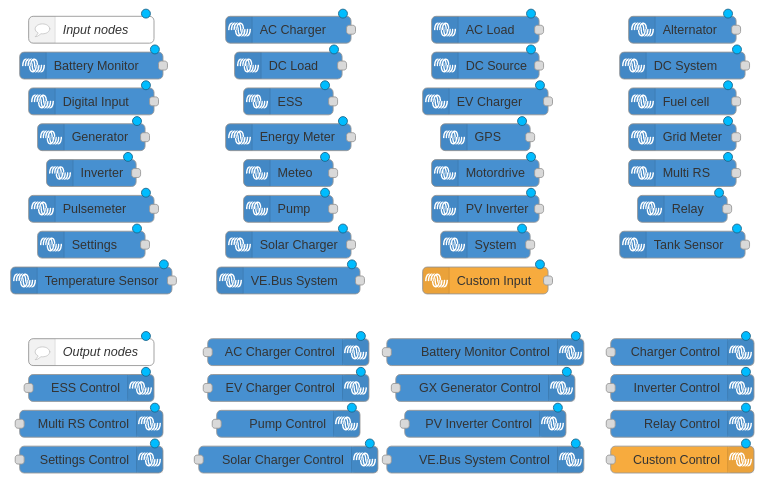
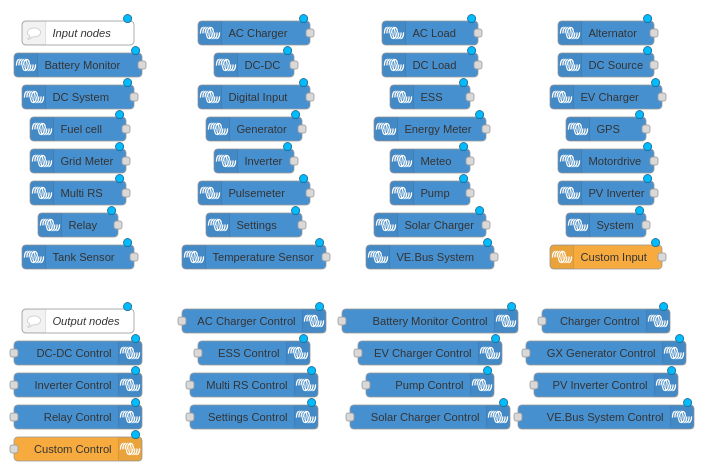
Fix in output-dcdc
- Register the control node output-dcdc correctly
- Rename the Smart BuckBoost to Orion XS
- Update the node palette
- Update documentation

diff --git a/src/nodes/config-client.html b/src/nodes/config-client.html
@@ -928,7 +928,7 @@ Questions can also be asked on the Victron Energy community:
 <p>The <strong>input nodes</strong> have two selectable inputs: the devices select and measurement select. The available options are dynamically updated based on the data that is actually available on the Venus device.</p> <ul> <li><em>Device select</em> - lists all available devices</li> <li><em>Measurement select</em> - lists all available device-specific measurements</li> <li><em>Node label input field</em> - sets a custom label for the node</li> </ul> <p>The measurement unit type is shown in the measurement label in brackets, e.g. Battery voltage (V). In case the data type is enumerated, an approppriate enum legend is shown below the selected option.</p>
 <p>If the data type is <em>float</em>, a dropdown for rounding the output appears.</p>
 <p>By default the node outputs its value every five seconds. If the <em>only changes</em> is checked, the node will only output on value changes.</p>
-<p>This node allows for monitoring the state of a Smart BuckBoost DC-DC charger.</p>
+<p>This node allows for monitoring the state of an Orion XS.</p>
 <h3>Dcdc</h3>
 <dl class="message-properties">
   <dt class="optional">/Dc/0/Current (A DC)<span class="property-type">float</dt>
@@ -4348,7 +4348,7 @@ Writing a negative value to the path will de-activate the schedule.
 <script type="text/x-red" data-help-name="victron-output-dcdc">
 <h3>Details</h3>
 <p><strong>Output nodes</strong> have the same options available as input nodes, but the selectable measurement only lists writable services. Additionally, the user can set an initial value to the service, which is sent whenever the flow is deployed.</p> <ul> <li><em>Device select</em> - lists all available devices</li> <li><em>Measurement select</em> - lists all available device-specific measurements</li> <li><em>Initial value input field</em> - lists all available device-specific measurements</li> <li><em>Node label input field</em> - sets a custom label for the node</li> </ul> <p>All output nodes should have the control value set in its incoming messages <code>msg.payload</code> property.</p> 
-<p>This node allows for controlling the Smart BuckBoost DC-DC chargers.</p>
+<p>This node allows for controlling an Orion XS.</p>
 <h3>Dcdc</h3>
 <dl class="message-properties">
   <dt class="optional">/Mode<span class="property-type">enum</dt>

diff --git a/src/nodes/victron-nodes.html b/src/nodes/victron-nodes.html
@@ -417,6 +417,7 @@
     registerOutputNode('victron-output-accharger', 'AC Charger', 'output-accharger');
     registerOutputNode('victron-output-battery', 'Battery Monitor', 'output-battery');
     registerOutputNode('victron-output-charger', 'Charger', 'output-charger');
+    registerOutputNode('victron-output-dcdc', 'DC-DC', 'output-dcdc');
     registerOutputNode('victron-output-ess', 'ESS', 'output-ess');
     registerOutputNode('victron-output-evcharger', 'EV Charger', 'output-evcharger');
     registerOutputNode('victron-output-generator', 'GX Generator', 'output-generator');

diff --git a/src/nodes/victron-nodes.js b/src/nodes/victron-nodes.js
@@ -183,6 +183,7 @@ module.exports = function (RED) {
   RED.nodes.registerType('victron-output-battery', BaseOutputNode)
   RED.nodes.registerType('victron-output-charger', BaseOutputNode)
   RED.nodes.registerType('victron-output-custom', BaseOutputNode)
+  RED.nodes.registerType('victron-output-dcdc', BaseOutputNode)
   RED.nodes.registerType('victron-output-ess', BaseOutputNode)
   RED.nodes.registerType('victron-output-evcharger', BaseOutputNode)
   RED.nodes.registerType('victron-output-generator', BaseOutputNode)

diff --git a/src/services/victron-system.js b/src/services/victron-system.js
@@ -204,6 +204,7 @@ class SystemConfiguration {
       'output-accharger': this.getNodeServices('output-accharger'),
       'output-battery': this.getNodeServices('output-battery'),
       'output-charger': this.getNodeServices('output-charger'),
+      'output-dcdc': this.getNodeServices('output-dcdc'),
       'output-ess': this.getNodeServices('output-ess'),
       'output-evcharger': this.getNodeServices('output-evcharger'),
       'output-generator': this.getNodeServices('output-generator'),
